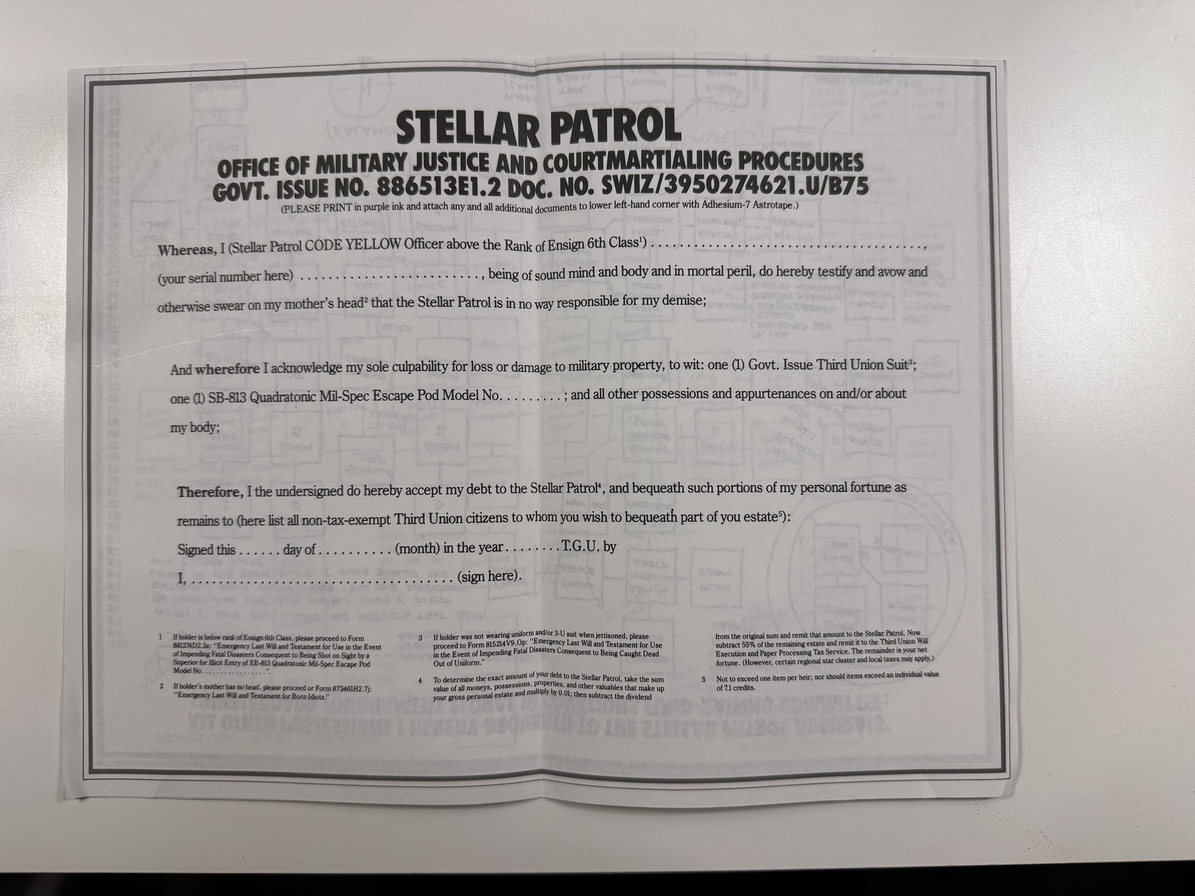
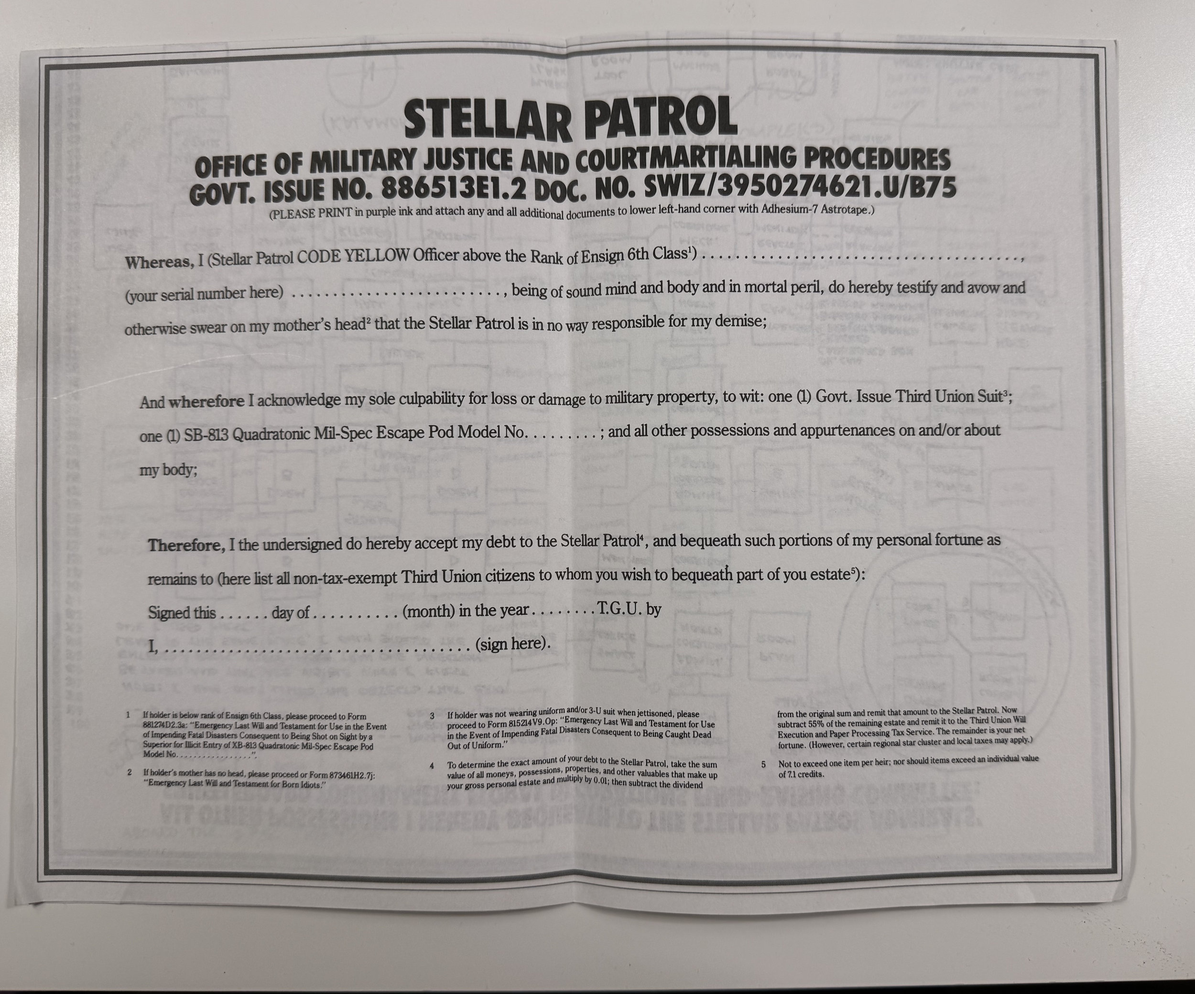
Fix the Planetfall gallery: rotation, crops, and two wrong facts
Four things were wrong and shipped, which they should not have been.

The Ramos II postcard was ninety degrees out. It is a landscape card and it
went up on its side; its own back was rotated correctly in the same batch,
which should have made the mismatch obvious.

The InvisiClues map and the opened will were both crossing their own edges into
tabletop and shadow, because the crops were set generously "to be safe" rather
than to the object. They are now cropped to the sheets.

The map is Infocom's own InvisiClues map, not a hand-drawn one, and the
Emergency Last Will and Testament is Infocom's joke printed on the reverse of
that same sheet. The note claimed somebody had drawn the map by hand on the
back of the will. That was wrong twice over and is rewritten.

And the gallery no longer forces one ratio. A folio, a postcard and an opened
map are three different shapes; the tiles are staggered columns now, each
photograph at its own proportions, so nothing is cropped to make a grid line up.

Changed region(s): [[0.0, 0.0309, 1.0, 0.928], [0.0, 0.9589, 1.0, 1.0]]

diff --git a/app/collection.ts b/app/collection.ts
@@ -140,9 +140,9 @@ export const collectionPhotography: Record<string, CollectionPhotography> = {
       { id: 'solid-gold-front', label: 'Solid Gold front', src: '/collection/planetfall-solid-gold-front.jpg', caption: 'The Solid Gold reissue, Apple II' },
       { id: 'solid-gold-back', label: 'Solid Gold back', src: '/collection/planetfall-solid-gold-back.jpg', caption: 'The Solid Gold reissue, Apple II' },
       { id: 'stellar-patrol', label: 'Brochure', src: '/collection/planetfall-stellar-patrol.jpg', caption: 'Today’s Stellar Patrol, the recruitment brochure from the package' },
-      { id: 'will', label: 'Will', src: '/collection/planetfall-will.jpg', caption: 'The Emergency Last Will and Testament, from the package' },
+      { id: 'invisiclues-map', label: 'InvisiClues map', src: '/collection/planetfall-invisiclues-map.jpg', caption: 'The official InvisiClues map of Complex One and Complex Two' },
+      { id: 'will', label: 'Will', src: '/collection/planetfall-will.jpg', caption: 'The Emergency Last Will and Testament — Infocom’s joke, printed on the reverse of the map' },
       { id: 'will-inside', label: 'Will, inside', src: '/collection/planetfall-will-inside.jpg', caption: 'The Emergency Last Will and Testament, opened' },
-      { id: 'map-drawn', label: 'Hand-drawn map', src: '/collection/planetfall-map-drawn.jpg', caption: 'A hand-drawn map of Complex One and Complex Two, on the back of the will' },
       { id: 'postcard-ramos', label: 'Ramos II postcard', src: '/collection/planetfall-postcard-ramos.jpg', caption: 'Postcard from Ramos II, from the package' },
       { id: 'postcard-ramos-back', label: 'Ramos II, back', src: '/collection/planetfall-postcard-ramos-back.jpg', caption: 'Postcard from Ramos II, reverse' },
       { id: 'postcard-nebulon-back', label: 'Nebulon, back', src: '/collection/planetfall-postcard-nebulon-back.jpg', caption: 'Postcard from Nebulon, reverse' },
@@ -152,7 +152,7 @@ export const collectionPhotography: Record<string, CollectionPhotography> = {
     feelies: 'https://gallery.guetech.org/planetfall/planetfall.html',
     map: 'https://www.mocagh.org/infocom/planetfall-map-front.pdf',
     manual: 'https://www.mocagh.org/infocom/planetfall-manual.pdf',
-    note: 'Thirteen photographs. The sealed IBM PC grey box front and back; the 1983 folio edition that preceded it; the Solid Gold reissue for the Apple II; and the feelies themselves—Today’s Stellar Patrol, the Emergency Last Will and Testament inside and out, and postcards from Ramos II and Nebulon. The grey box carries a heavy shrink-wrap sheen across the poster and, on its back, the 55 Wheeler Street address Infocom used before it moved to CambridgePark Drive. The will states that it is definitely not to be used for drawing a map of unauthorized terrain following successful Planetfall; someone drew Complex One and Complex Two on the back of it anyway. Historical materials remain with the preservation projects that made them available.',
+    note: 'Thirteen photographs. The sealed IBM PC grey box front and back; the 1983 folio edition that preceded it; the Solid Gold reissue for the Apple II; and the contents of the package—Today’s Stellar Patrol, the InvisiClues map of Complex One and Complex Two, and postcards from Ramos II and Nebulon. The map carries Infocom’s own joke on its reverse: an Emergency Last Will and Testament, which solemnly warns that the document is definitely not to be used for drawing a map of unauthorized terrain following successful Planetfall. The grey box shows a heavy shrink-wrap sheen across the poster and, on its back, the 55 Wheeler Street address Infocom used before it moved to CambridgePark Drive. Historical materials remain with the preservation projects that made them available.',
   },
   'hollywood-hijinx': {
     edition: 'Michael’s sealed Atari ST copy',

diff --git a/app/globals.css b/app/globals.css
@@ -310,15 +310,18 @@ footer a { display: flex; align-items: center; gap: 7px; font: 9px/1 var(--font-
 .exhibit-nav > a:nth-child(2) { flex: 0 0 auto; font: 500 8px/1 var(--font-mono-custom), monospace; letter-spacing: .14em; text-transform: uppercase; border-bottom: 1px solid #4a4237; padding-bottom: 7px; }
 .exhibit-nav > a:last-child { text-align: right; }
 
-/* "Other": everything that is not the sealed copy's front and back. Sized to
-   stay readable as the count grows from three to forty. */
-.photo-gallery { display: grid; grid-template-columns: repeat(auto-fill, minmax(min(150px, 100%), 1fr)); gap: clamp(12px, 1.2vw, 20px); align-content: start; }
-.photo-gallery-item { padding: 0; border: 0; background: transparent; color: inherit; text-align: left; cursor: zoom-in; }
-.photo-gallery-frame { display: block; aspect-ratio: 5 / 6; overflow: hidden; border: 1px solid #4e4538; background: #ddd8cf; box-shadow: 0 14px 28px rgb(0 0 0 / 40%); transition: transform .2s ease, box-shadow .2s ease; }
-.photo-gallery-frame img { display: block; width: 100%; height: 100%; object-fit: contain; }
+/* "Other": everything that is not the sealed copy's front and back. Staggered
+   columns, because a folio, a postcard and an opened map are three different
+   shapes and forcing them into one ratio crops all three. */
+.photo-gallery { columns: 3; column-gap: clamp(12px, 1.2vw, 20px); }
+.photo-gallery-item { display: block; width: 100%; margin: 0 0 clamp(14px, 1.4vw, 22px); padding: 0; border: 0; background: transparent; color: inherit; text-align: left; cursor: zoom-in; break-inside: avoid; }
+.photo-gallery-frame { display: block; border: 1px solid #4e4538; background: #ddd8cf; box-shadow: 0 14px 28px rgb(0 0 0 / 40%); transition: transform .2s ease, box-shadow .2s ease; }
+.photo-gallery-frame img { display: block; width: 100%; height: auto; }
 .photo-gallery-item:hover .photo-gallery-frame, .photo-gallery-item:focus-visible .photo-gallery-frame { transform: translateY(-4px); box-shadow: 0 20px 34px rgb(0 0 0 / 55%), 0 0 0 1px rgb(217 164 65 / 45%); }
 .photo-gallery-item:focus-visible { outline: none; }
 .photo-gallery-label { display: block; margin-top: 9px; color: #9a9184; font: 500 8px/1.3 var(--font-mono-custom), monospace; letter-spacing: .1em; text-transform: uppercase; }
+@media (max-width: 1240px) { .photo-gallery { columns: 2; } }
+@media (max-width: 620px)  { .photo-gallery { columns: 1; } }
 
 .photo-zoom { position: fixed; inset: 0; z-index: 60; background: rgb(7 6 5 / 97%); animation: reveal-terminal .22s ease-out; }
 .photo-zoom-scroll { position: absolute; inset: 0; overflow: auto; display: grid; place-items: center; padding: 26px; }
